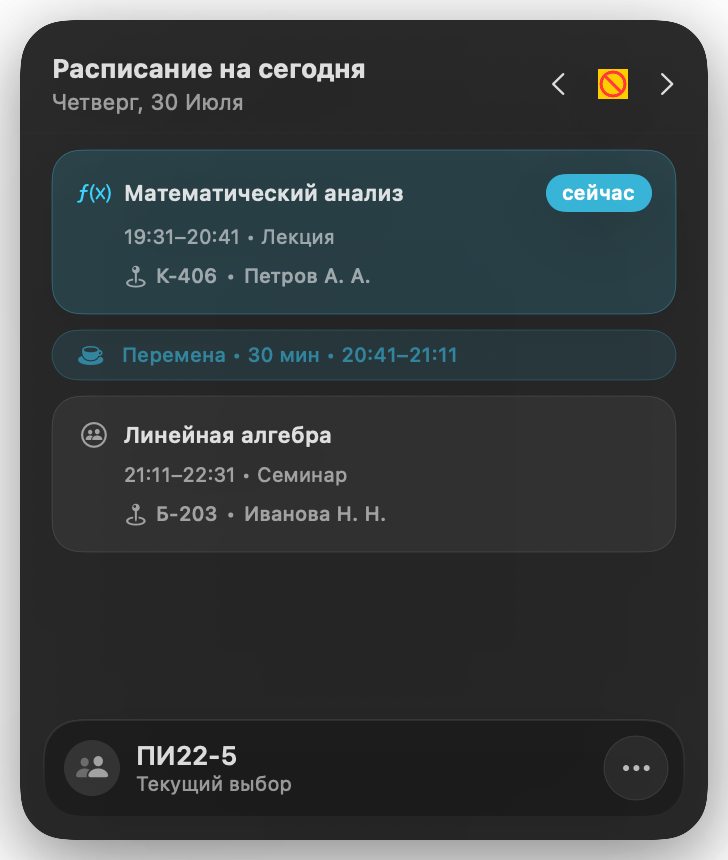
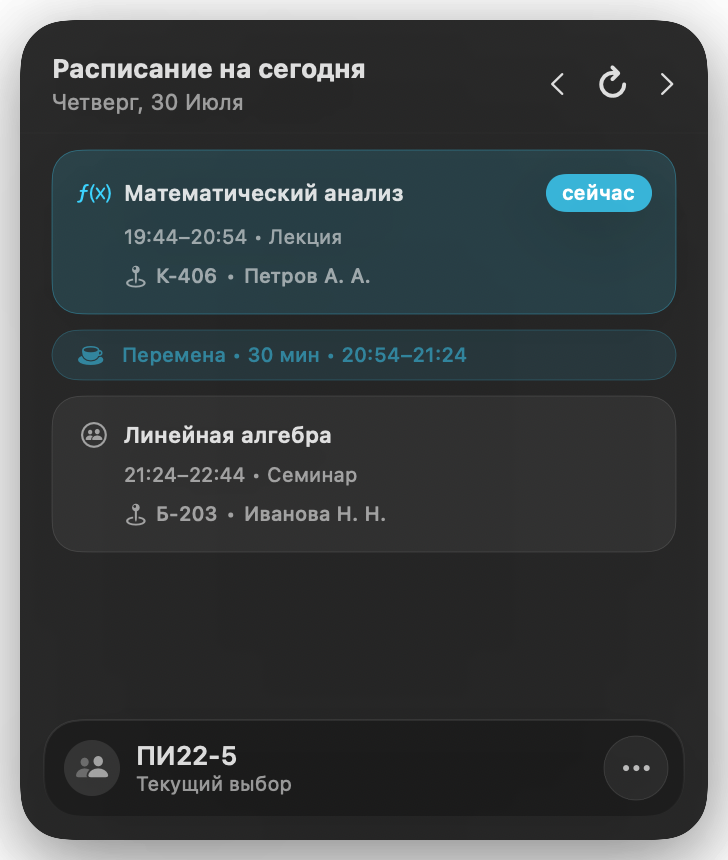
fix: render refresh control consistently

diff --git a/UniversitySchedule/views/ScheduleView.swift b/UniversitySchedule/views/ScheduleView.swift
@@ -84,21 +84,19 @@ struct ScheduleView: View {
                     .onTapGesture {
                         scrollLeft()
                     }
-                Button {
-                    store.refresh(force: true)
-                } label: {
-                    Group {
-                        if store.isLoading {
-                            ProgressView().controlSize(.small)
-                        } else {
-                            Image(systemName: "arrow.triangle.2.circlepath")
-                                .imageScale(.medium)
-                        }
+                Group {
+                    if store.isLoading {
+                        ProgressView().controlSize(.small)
+                    } else {
+                        Text("↻")
+                            .font(.system(size: 19, weight: .medium))
+                            .contentShape(Rectangle())
+                            .onTapGesture {
+                                store.refresh(force: true)
+                            }
                     }
                 }
                 .padding(.horizontal, 6)
-                .buttonStyle(.borderless)
-                .disabled(store.isLoading)
                 Image(systemName: "chevron.right")
                     .imageScale(.medium)
                     .contentShape(Rectangle())

diff --git a/README.md b/README.md
@@ -1,6 +1,6 @@
 <div align="center">
 
-# University Schedule for macOS
+# macOS Menu Bar Schedule
 
 ### Нативное menu-bar приложение для быстрого просмотра университетского расписания
 
@@ -88,8 +88,8 @@ UniversitySchedule/
 Требования: macOS 15.5+ и Xcode с поддержкой Swift Package Manager.
 
 ```bash
-git clone https://github.com/nezqt3/UniversitySchedule.git
-cd UniversitySchedule
+git clone https://github.com/nezqt3/macOS-MenuBar-Schedule.git
+cd macOS-MenuBar-Schedule
 open UniversitySchedule.xcodeproj
 ```
 
